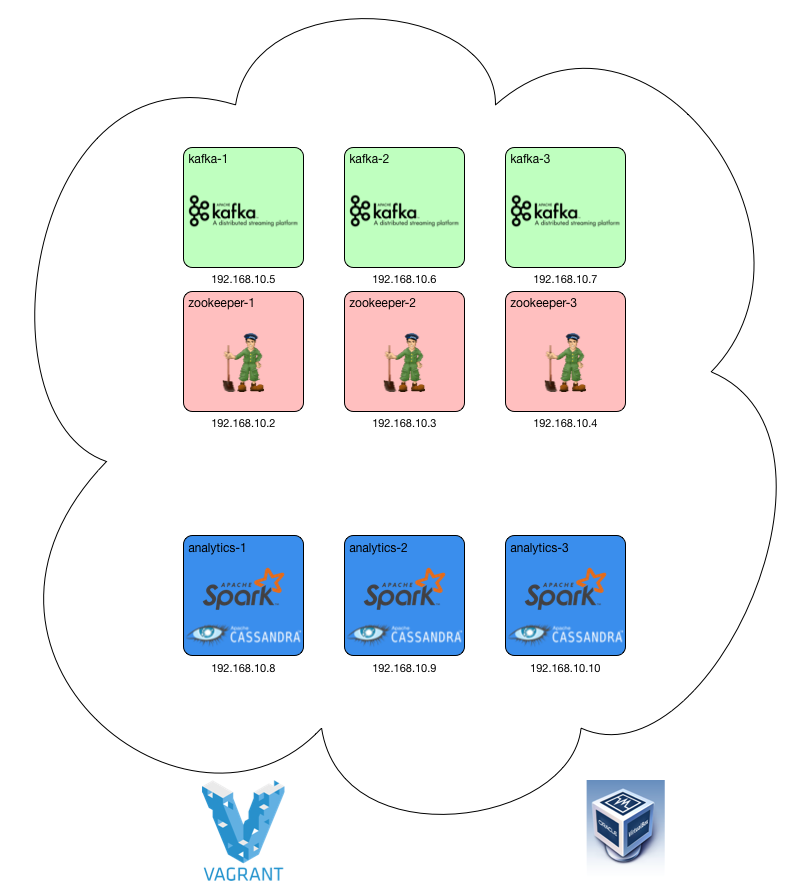
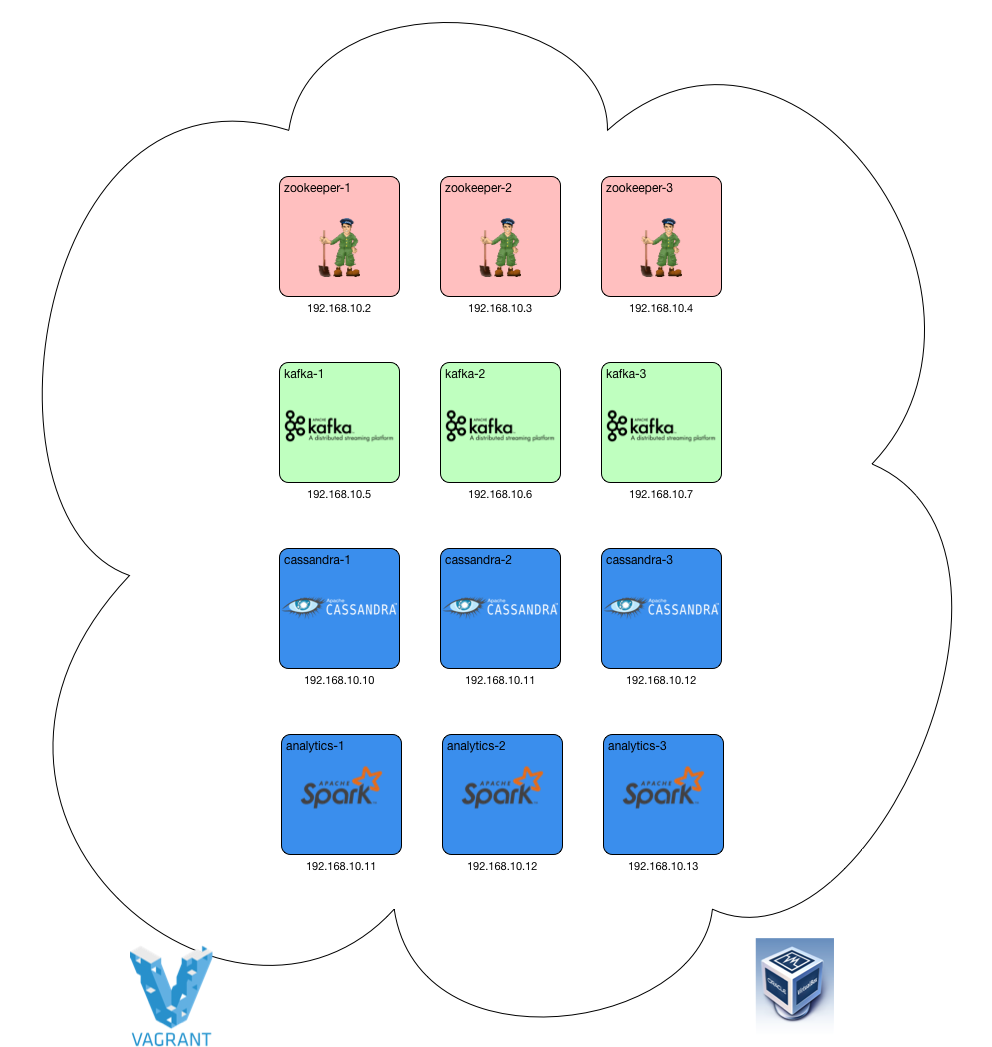
divided cassandra-* and analytics-* nodes.

diff --git a/README.md b/README.md
@@ -14,7 +14,7 @@ In case you need a local cluster providing Kafka, Cassandra and Spark you're at 
 
 * [Vagrant](https://www.vagrantup.com) (tested with 1.9.1)
 * [VirtualBox](http://virtualbox.org) (tested with 5.1.14)
-* The Nodes take 12 GB of RAM, so you should have much more than that.
+* The Nodes take aprox 16 GB of RAM, so you should have much more than that.
 
 
 ### Init
@@ -37,15 +37,18 @@ The result if everything wents fine should be
 
 | IP | Hostname | Description | Settings |
 |:--- |:-- |:-- |:-- |
-|192.168.10.2|zookeeper-1|running a zookeeper instance| 1 GB RAM |
-|192.168.10.3|zookeeper-2|running a zookeeper instance| 1 GB RAM |
-|192.168.10.4|zookeeper-3|running a zookeeper instance| 1 GB RAM |
+|192.168.10.2|zookeeper-1|running a zookeeper instance| 768 MB RAM |
+|192.168.10.3|zookeeper-2|running a zookeeper instance| 768 MB RAM |
+|192.168.10.4|zookeeper-3|running a zookeeper instance| 768 MB RAM |
 |192.168.10.5|kafka-1|running a kafka broker| 1 GB RAM |
 |192.168.10.6|kafka-2|running a kafka broker| 1 GB RAM |
 |192.168.10.7|kafka-3|running a kafka broker| 1 GB RAM |
-|192.168.10.8|analytics-1|running a cassandra seed node, spark master and a spark slave| 2 GB RAM |
-|192.168.10.9|analytics-2|running a cassandra node and a spark slave| 2 GB RAM |
-|192.168.10.10|analytics-3|running a cassandra seed node and a spark slave| 2 GB RAM |
+|192.168.10.8|cassandra-1|running a cassandra seed node| 1,5 GB RAM |
+|192.168.10.9|cassandra-2|running a cassandra nodee| 1,5 GB RAM |
+|192.168.10.10|cassandra-3|running a cassandra seed node| 1,5 GB RAM |
+|192.168.10.11|analytics-1|running a spark master and a spark slave| 2 GB RAM |
+|192.168.10.12|analytics-2|running a spark slave| 2 GB RAM |
+|192.168.10.13|analytics-3|running a spark slave| 2 GB RAM |
 
 #### Connections
 
@@ -54,9 +57,9 @@ The result if everything wents fine should be
 |Zookeeper|192.168.10.2:2181,192.168.10.3:2181,192.168.10.4:2181|
 |Kafka Brokers|192.168.10.5:9092,192.168.10.6:9092,192.168.10.7:9092|
 |Cassandra Hosts|192.168.10.8,192.168.10.9,192.168.10.10|
-|Spark UI|[http://192.168.10.8:8080](http://192.168.10.8:8080)|
-|Spark REST Submit|spark://192.168.10.8:6066|
-|Spark Master|spark://192.168.10.8:7077|
+|Spark UI|[http://192.168.10.11:8080](http://192.168.10.11:8080)|
+|Spark REST Submit|spark://192.168.10.11:6066|
+|Spark Master|spark://192.168.10.11:7077|
 
 (**Note:** most things are not bound to hostname, but IP for the simple reason that you do not need to setup `/etc/hosts` for your host machine)
 
@@ -136,10 +139,10 @@ Hey, is Kafka up and running?
 Copy a spark application to `./exchange` shared folder.
 
 ```bash
-lucky:~ markus$ spark-submit --master spark://192.168.10.8:6066 --class org.mh.playground.spark.StreamingSample --deploy-mode cluster /vagrant/exchange/spark-playground-all.jar
+lucky:~ markus$ spark-submit --master spark://192.168.10.11:6066 --class org.mh.playground.spark.StreamingSample --deploy-mode cluster /vagrant/exchange/spark-playground-all.jar
 Running Spark using the REST application submission protocol.
 Using Spark's default log4j profile: org/apache/spark/log4j-defaults.properties
-17/01/04 13:51:48 INFO RestSubmissionClient: Submitting a request to launch an application in spark://192.168.10.8:6066.
+17/01/04 13:51:48 INFO RestSubmissionClient: Submitting a request to launch an application in spark://192.168.10.11:6066.
 17/01/04 13:51:49 INFO RestSubmissionClient: Submission successfully created as driver-20170104135149-0000. Polling submission state...
 17/01/04 13:51:49 INFO RestSubmissionClient: Submitting a request for the status of submission driver-20170104135149-0000 in spark://192.168.10.8:6066.
 17/01/04 13:51:49 INFO RestSubmissionClient: State of driver driver-20170104135149-0000 is now RUNNING.
@@ -154,6 +157,6 @@ Using Spark's default log4j profile: org/apache/spark/log4j-defaults.properties
 }
 ```
 
-The UI can be accessed by [http://192.168.10.8:8080](http://192.168.10.8:8080), from there you can navigate to your application and it can look like
+The UI can be accessed by [http://192.168.10.11:8080](http://192.168.10.11:8080), from there you can navigate to your application and it can look like
 
 ![Spark running streaming](doc/spark-streaming.png)
